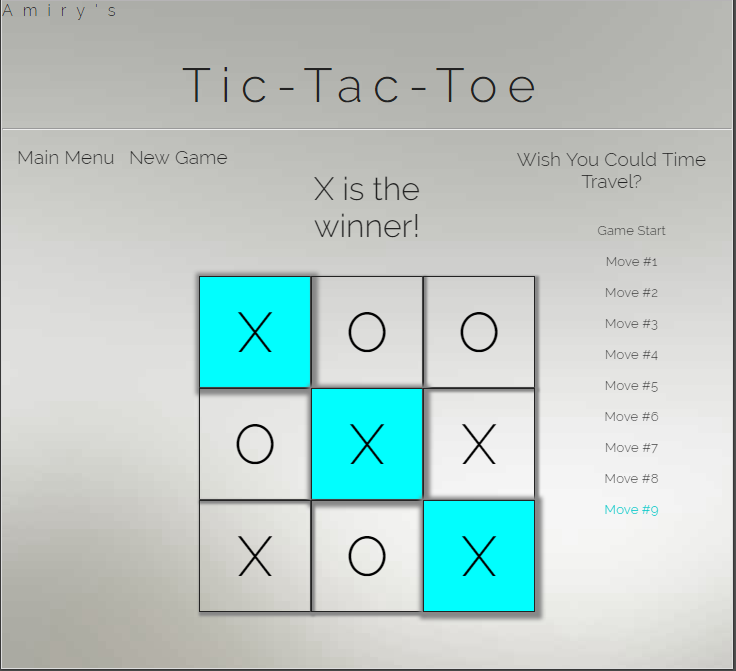
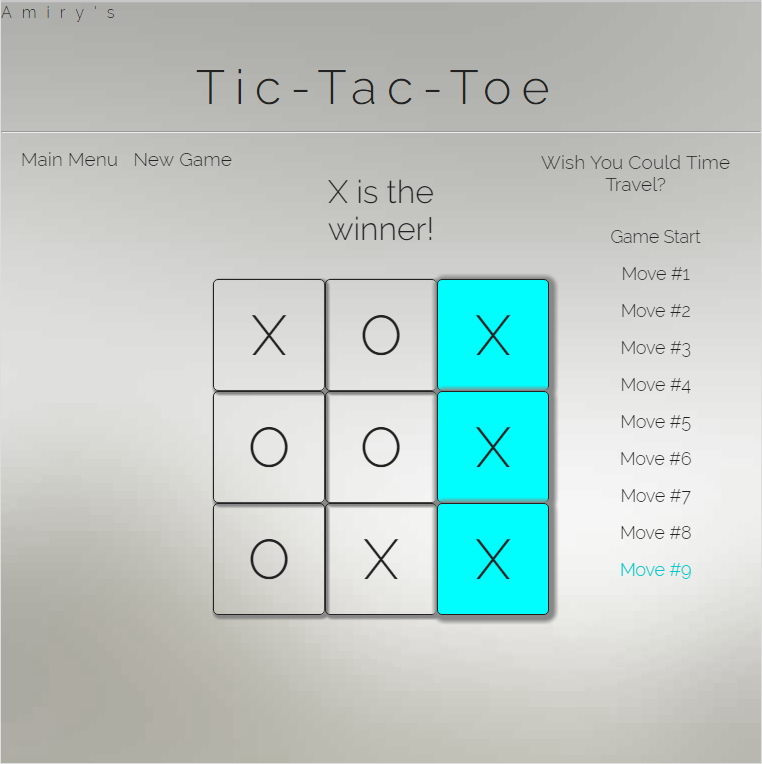
Current Step
# always highlighted

diff --git a/src/styles/App.css b/src/styles/App.css
@@ -56,7 +56,6 @@ body {
 
 .App-header {
   background-color: transparent;
-  color: #222222;
   font-size: 3rem;
   letter-spacing: 10px;
   text-align: center;
@@ -70,12 +69,13 @@ body {
   float: left;
   margin-left: 3%;
   display: block;
+  transition: 0.25s ease-in;
 }
 a {
   color: inherit;
   transition: 0.25s ease-in;
 }
-a:hover {
+.author:hover {
   color: cyan;
 }
 a:active {
@@ -88,9 +88,8 @@ a:active {
   margin-bottom: 2%;
   transition: 0.33s ease-in;
   padding: 1%;
-  font-family: Raleway , serif;
-  color: #222222;
   font-size: 2rem;
+  border-radius: 5px;
 }
 .menu_button:hover{
   box-shadow: 1px 1px 1px 1px #888888 inset;
@@ -118,9 +117,7 @@ a:active {
   margin-bottom: 5%;
   transition: 0.33s ease-in;
   padding: 5%;
-  font-family: Raleway , serif;
   font-size: 1.2rem;
-  color: #222222;
 }
 .value button.selected {
   color: #00c8c8;
@@ -131,9 +128,7 @@ a:active {
   margin-bottom: 5%;
   transition: 0.33s ease-in;
   padding: 5%;
-  font-family: Raleway , serif;
   font-size: 1.2rem;
-  color: #222222;
 }
 .shown {
   animation: slide-in 0.5s forwards;
@@ -194,24 +189,24 @@ table {
   background: transparent;
   border: 1px solid #aaaaaa;
   transition: 0.5s;
-  font-family: Raleway , serif;
+  border-radius: 5px;
 }
 .square_filled {
+  border-radius: 5px;
   box-shadow: 2px 2px 2px 2px #888888;
   animation: fade-in 1s forwards;
   background: transparent;
   border: 1px solid #222222;
   font-size: 3.5rem;
-  font-family: Raleway , serif;
 }
 .square_filled:active {
-  animation: wiggle 0.25s forwards;
+  animation: wiggle 0.33s forwards;
 }
 .square:hover {
   border-color: cyan;
 }
 .square:active {
-  box-shadow: 5px 5px 2px #888888 inset;
+  box-shadow: 5px 5px 2px 2px #888888 inset;
 }
 .square_filled.win {
   background-color: #00ffff;
@@ -229,10 +224,9 @@ button:focus {
   background-color: transparent;
   margin: 1%;
   padding: 2%;
-  font-family: Raleway , serif;
   font-size: 1.2rem;
-  color: #222222;
   border: none;
+  border-radius: 5px;
   transition: 0.33s ease-in;
 }
 .exit_game:hover {
@@ -254,16 +248,13 @@ li{
   width: 50%;
   margin: 0 auto;
 }
-.game_history{
-}
 .show_history {
   background-color: transparent;
   margin: 1%;
   padding: 3%;
-  font-family: Raleway , serif;
   font-size: 1.2rem;
-  color: #222222;
   border: none;
+  border-radius: 5px;
   transition: 0.33s ease-in;
 }
 .show_history:hover {
@@ -274,22 +265,23 @@ li{
   animation: slide-in 0.75s forwards;
   background-color: transparent;
   border: none;
+  border-radius: 5px;
+  font-size: 1.1rem;
   margin-bottom: 5%;
   transition: 0.33s ease-in;
   padding: 5%;
-  font-family: Raleway , serif;
-  color: #222222;
 }
 .list button:hover {
   box-shadow: 1px 1px 1px 1px #888888 inset;
 }
-.list button:focus {
+.current_step {
   color: #00c8c8;
 }
 .list_hidden button{
   animation: slide-out 0.5s forwards;
   background-color: transparent;
   border: none;
+  font-size: 1.1rem;
   margin-bottom: 5%;
   padding: 5%;
 }

diff --git a/src/containers/Game.js b/src/containers/Game.js
@@ -82,7 +82,10 @@ class Game extends Component {
                 'Move #' + move : 'Game Start';
             return (
                 <li key={move}>
-                    <button onClick={() => this.jumpTo(move)}>{description}</button>
+                    <button onClick={() => this.jumpTo(move)}
+                            className={(this.props.stepNumber===move) ? 'current_step' : ''}>
+                        {description}
+                    </button>
                 </li>
             )
         });
